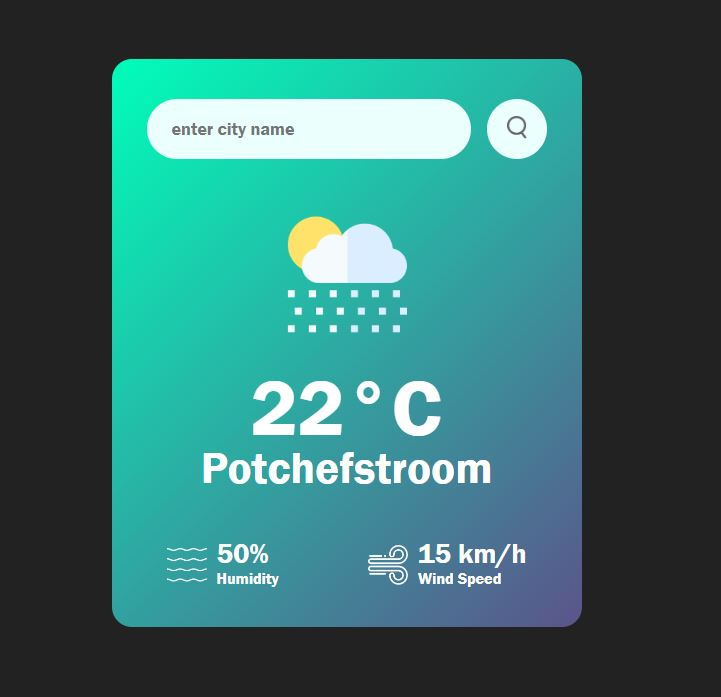
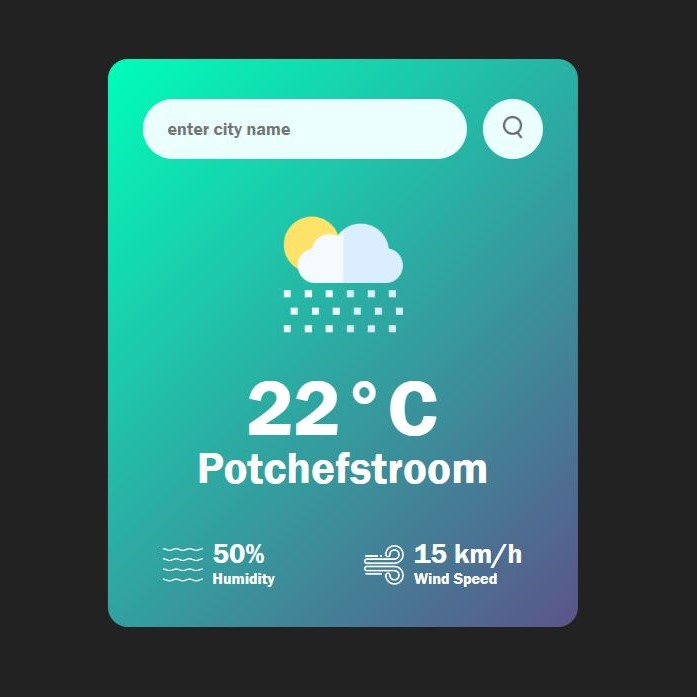
Added project 2

diff --git a/index.html b/index.html
@@ -352,15 +352,16 @@
             <div class="details-container color-container">
                 <div class="article-container">
                     <img 
-                    src="./assets/project-2.png" 
-                    alt="Project 2" 
+                    src="./assets/WeatherApp.JPG" 
+                    alt="Screenhot of weather app" 
                     class="project-img">
                 </div>
-                <h2 class="experience-sub-title project-title">Project Two</h2>
+                <h2 class="experience-sub-title project-title">Weather App</h2>
+                <p>Created a weather app using JavaScript, HTML, and CSS. The app uses an API to get weather information for the city that the user searches for.<br><br></p>
                 <div class="btn-container">
                     <button 
                     class="btn btn-color-2 project-btn" 
-                    onclick="location.href='https://github.com/'">
+                    onclick="location.href='https://github.com/michaelfourie158/Weather-App'">
                         GitHub
                     </button>
                     
